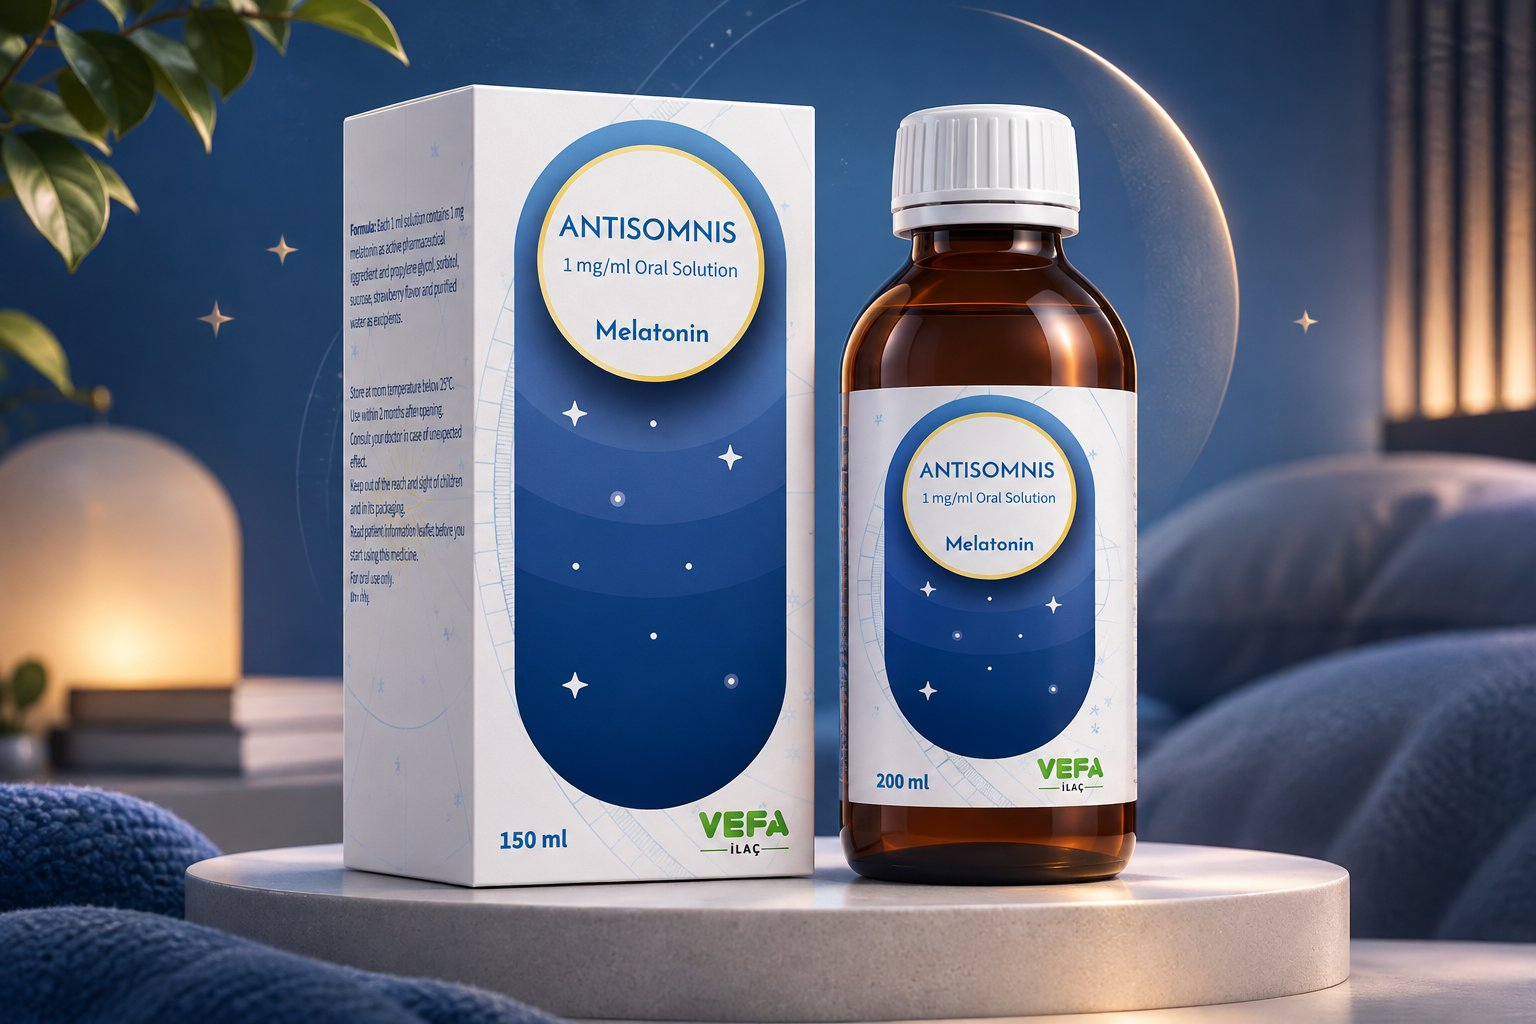
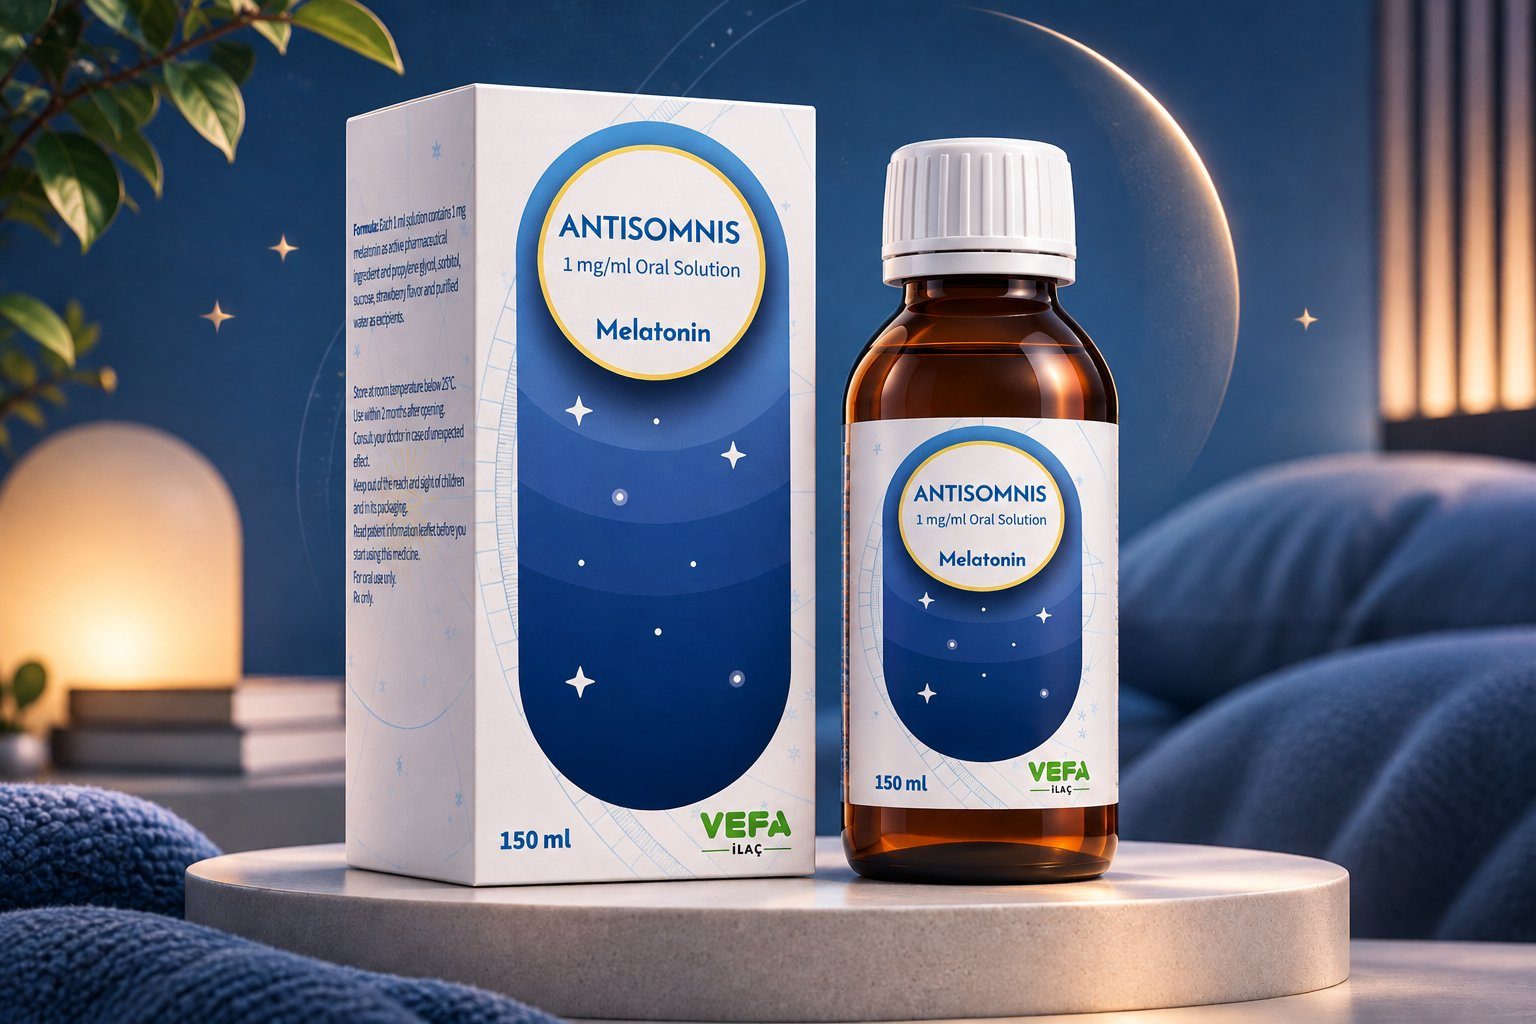
Ambalaj: Antisomnis görseli 150 ml tutarlı sürümle değiştirildi
Claude-Session: https://claude.ai/code/session_01FnUBnccVDkXZpZL3Fhhb4p

diff --git a/index.html b/index.html
@@ -1928,7 +1928,7 @@ ul,ol{padding:0;list-style:none}
   /* ---------- İşler: carousel (kapaklar) + tıklayınca altta açılan galeri ---------- */
   const WORK_DIR = "assets/work/";
   // Görsel değiştirince bu sayıyı bir artır: tarayıcıların eski kopyayı göstermesini önler
-  const MEDIA_V = "10";
+  const MEDIA_V = "11";
   const fresh = url => `${url}?v=${MEDIA_V}`;
   const track = $("#track"), count = $("#carCount"), prevBtn = $("#prevBtn"), nextBtn = $("#nextBtn");
   const detail = $("#detail"), dGrid = $("#detailGrid"), dTitle = $("#detailTitle"), dClose = $("#detailClose"), dMore = $("#detailMore");
